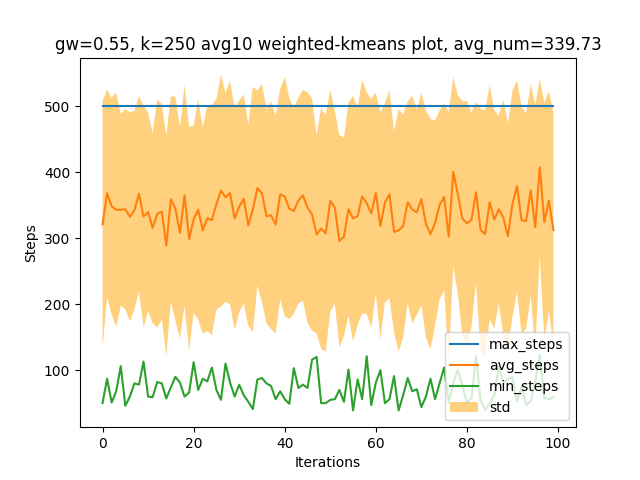
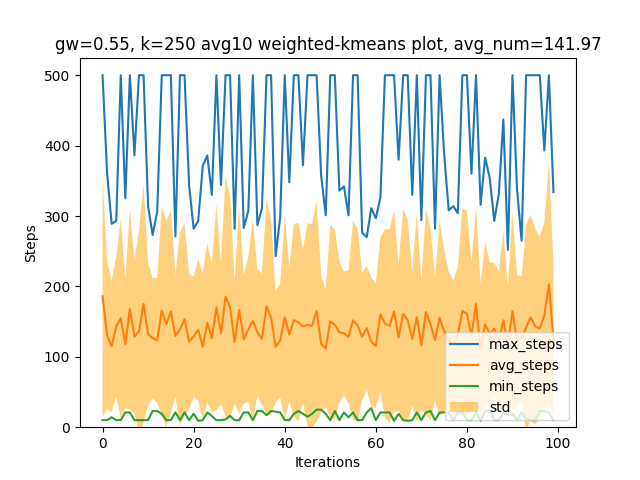
New kmeans equation added but not optimized

diff --git a/classes/genericBasic.py b/classes/genericBasic.py
@@ -1,11 +1,17 @@
 import numpy as np
+import sklearn.utils
+
 from helper.K_MeansTypes import *
+from helper.kmeans_model import *
 from sklearn.cluster import KMeans
 from sklearn import preprocessing
 from scipy.special import softmax
 import matplotlib.pyplot as plt
 from sklearn import datasets, manifold
 from matplotlib.ticker import NullFormatter
+
+from helper.special_plot import Plot
+from sklearn.utils import gen_even_slices
 
 
 
@@ -54,6 +60,12 @@ class GenericModel:
 
         self.split_kmeans_clusters: list[list[np.ndarray]] = [[] for _ in range(self.action_space_size)]
         self.split_kmeans_clusters: list[list[float]] = [[] for _ in range(self.action_space_size)]
+
+
+
+        self.num_batches_analyzed = 600
+        self.use_special_kmeans = True
+        self.show_special = False
 
 
     def get_action_without_kmeans(self, state):
@@ -134,8 +146,42 @@ class GenericModel:
         plt.show()
         print("Finished TSNE!")
 
+    def get_batches(self, data, batch_size):
+        np.random.shuffle(data)
+        num_batches = int(np.floor(data.shape[0]/batch_size))
+        batch_slices = list(gen_even_slices(data.shape[0], num_batches))
+        batches = [data[batch_slice] for batch_slice in batch_slices]
+        return batches
+        #Continue creating batches.
+
+
+    def get_centers_special_kmeans(self, data):
+        print(f"{data.shape=}")
+        data_length = data.shape[0]
+        self.gaussian_width = 0.1
+        model = Model(K=50, D=4, sigma=self.gaussian_width, lambda_=0.5, learning_rate=0.02)
+        model.mu -= 0.5
+        if self.show_special:
+            plot = Plot(model, xlim=(-2.5, 2.5), ylim=(-2.5, 2.5))
+        i = 0
+        while i < self.num_batches_analyzed:
+            batches = self.get_batches(data, 100)
+            for batch in batches:
+                for x in batch:
+                    model.update(x)
+                # Update
+                # Check if updates are finished
+                if self.show_special:
+                    plot.draw_frame_no_label(batch=batch)
+                i += 1
+            print(i)
+        if self.show_special:
+            plot.clf()
+        return model.mu
+
 
     def calc_standard_kmeans(self, run_tsne=False):
+
         self.num_states_when_ran_kmeans= len(self.states)
         if self.weighted_kmeans:
             self.weights = self.get_kmeans_weights()
@@ -147,13 +193,26 @@ class GenericModel:
             self.standardized_states = self.scaler.transform(self.states)
         else:
             self.standardized_states = self.states
-        self.kmeans_centers = KMeans(n_clusters=self.K, random_state=0, n_init='auto').fit(self.standardized_states, sample_weight=self.weights).cluster_centers_
-        if run_tsne:
+
+
+        if self.use_special_kmeans:
+            self.kmeans_centers = self.get_centers_special_kmeans(self.standardized_states)
+        else:
+            self.kmeans_centers = KMeans(n_clusters=self.K, random_state=0, n_init='auto').fit(self.standardized_states, sample_weight=self.weights).cluster_centers_
+
+
+        if run_tsne or True:
             self.tsne()
         if self.use_vectors:
             self.center_vectors = self.calc_kmeans_center_vector(self.kmeans_centers)
         self.kmeans_action_reward_list, self.kmeans_action_weight_list = self.calc_kmeans_center_rewards(self.kmeans_centers)
         self.center_max_rewards = np.max(self.kmeans_action_reward_list, axis=0)
+
+
+    def get_special_kmeans_centers(self):
+
+        print("Test")
+
 
     def get_kmeans_weights(self):
         formatted_input = np.asarray(self.rewards) / (max(np.abs(self.rewards)))

diff --git a/helper/special_plot.py b/helper/special_plot.py
@@ -1,0 +1,76 @@
+import numpy as np
+import matplotlib
+from matplotlib.figure import Figure
+from matplotlib.axes import Axes
+from matplotlib.markers import MarkerStyle
+import matplotlib.pyplot as plt
+from helper.kmeans_model import Model
+
+
+class Plot:
+
+    def __init__(self, model: Model, xlim: tuple[float, float], ylim: tuple[float, float], alpha: float = 0.3):
+        self.model = model
+        self.fig, self.ax = plt.subplots()
+
+        plt.xticks(())
+        plt.yticks(())
+        plt.xlim(xlim)
+        plt.ylim(ylim)
+
+        self.scatter_batch = self.ax.scatter([], [], linewidths=0, color='lightgray')
+        self.scatter_mus = self.ax.scatter([], [], linewidths=0, color='#888888', marker=MarkerStyle("D"))
+        self.scatters_batch_labeled = [
+            self.ax.scatter([], [], linewidths=0, color=cycle['color'], alpha=alpha)
+            for _, cycle in zip(range(self.model.mu.shape[0]), matplotlib.rcParams["axes.prop_cycle"]())
+        ]
+        self.scatters_mus_labeled = [
+            self.ax.scatter([], [], linewidths=0, color=cycle['color'], marker=MarkerStyle("D"))
+            for _, cycle in zip(range(self.model.mu.shape[0]), matplotlib.rcParams["axes.prop_cycle"]())
+        ]
+
+    def __draw(self, batch: np.ndarray, labels: np.ndarray):
+        self.scatter_batch.set_offsets(batch)
+        self.scatter_mus.set_offsets(self.model.mu)
+        for scatter_batch_labeled, scatter_mus_labeled in zip(self.scatters_batch_labeled, self.scatters_mus_labeled):
+            scatter_batch_labeled.set_visible(False)
+            scatter_mus_labeled.set_visible(False)
+
+        for label in range(1, labels.max() + 1):
+            mu_offsets = self.model.mu[labels == label]
+            if len(mu_offsets) > 0:
+                self.scatters_mus_labeled[label - 1].set_offsets(mu_offsets)
+                self.scatters_mus_labeled[label - 1].set_visible(True)
+
+        x_offsets: dict[int, list] = {}
+        for x in batch:
+            closest_mu = np.argmin(np.sum(np.square(self.model.mu - x), axis=1))
+            x_offsets.setdefault(labels[closest_mu], []).append(x)
+
+        for label in range(1, labels.max() + 1):
+            if label in x_offsets:
+                self.scatters_batch_labeled[label - 1].set_offsets(x_offsets[label])
+                self.scatters_batch_labeled[label - 1].set_visible(True)
+
+    def save(self, title: str, batch: np.ndarray, labels: np.ndarray):
+        self.__draw(batch, labels)
+        plt.tight_layout(pad=0.0)
+        plt.savefig(title, bbox_inches='tight', pad_inches=.0)
+
+    def show(self, batch: np.ndarray, labels: np.ndarray):
+        self.__draw(batch, labels)
+        plt.show()
+
+    def draw_frame(self, batch: np.ndarray, labels: np.ndarray):
+        self.__draw(batch, labels)
+        self.fig.canvas.draw_idle()
+        plt.pause(0.0001)
+
+    def draw_frame_no_label(self, batch: np.ndarray):
+        labels = np.zeros(batch.shape[0], dtype=int)
+        self.__draw(batch, labels)
+        self.fig.canvas.draw_idle()
+        plt.pause(0.0001)
+
+    def clf(self):
+        plt.clf()

diff --git a/helper/kmeans_model.py b/helper/kmeans_model.py
@@ -1,0 +1,41 @@
+import numpy as np
+
+
+
+
+class Model:
+
+    def __init__(self, K: int, D: int, sigma: float, lambda_: float, learning_rate: float):
+        self.K = K
+        self.D = D
+        self.mu = np.random.rand(K, D)
+        self.sigma = sigma
+        self.lambda_ = lambda_
+        self.learning_rate = learning_rate
+
+        self.i: list[int] = []
+        self.j: list[int] = []
+        for i in range(0, K):
+            for j in range(0, K):
+                if i != j:
+                    self.i.append(i)
+                    self.j.append(j)
+
+    def f(self, x: np.ndarray, i: None | int | list[int] = None) -> np.ndarray:
+        if i == None:
+            return np.exp(-np.square(x - self.mu).sum(axis=1) / self.sigma)
+        if isinstance(i, int):
+            return np.exp(-np.square(x - self.mu[i]).sum() / self.sigma)
+        return np.exp(-np.square(x - self.mu[i]).sum(axis=1) / self.sigma)
+
+    def update(self, x: np.ndarray):
+        diff = self.f(x).reshape(-1, 1) * (x - self.mu) - (2.0 * self.lambda_ *
+                                                           (self.mu[self.j] - self.mu[self.i]) * self.f(self.mu[self.j], self.i).reshape(-1, 1)).reshape(
+                                                               -1, self.K - 1, self.mu.shape[1]).sum(axis=1)
+
+        self.mu += vekting*self.learning_rate * diff / self.sigma
+        # Snitt vekting er på 1.
+
+    def f_min(self) -> float:
+        # sqrt(a/2) is the inflection point and equal to solution of d^2/dx^2 e^(-x^2/a) = 0 given x>0, a>0
+        return np.exp(-np.square(3. * np.sqrt(self.sigma / 2.) - 0.).sum() / self.sigma)

diff --git a/genericClients/Mass_testing_client.py b/genericClients/Mass_testing_client.py
@@ -6,7 +6,7 @@ import helper.plotHelper as plotHelper
 import time
 import genericClients.kMeansClient as kMeansClient
 
-SEED_COUNT = 30
+SEED_COUNT = 10
 
 
 GAUSSIANS = [0.515, 0.535, 0.55, 0.565, 0.58]
@@ -24,14 +24,14 @@ EXPLORATION_RATES = [0.1]
 RUN_KMEANS_UNWEIGHTED = True
 RUN_KMEANS_UNWEIGHTED = False
 
-RUN_KMEANS_WEIGHTED = True
 RUN_KMEANS_WEIGHTED = False
+RUN_KMEANS_WEIGHTED = True
 
-RUN_KMEANS_VECTOR = False
 RUN_KMEANS_VECTOR = True
+RUN_KMEANS_VECTOR = False
 
-RUN_KMEANS_VECTOR2 = False
 RUN_KMEANS_VECTOR2 = True
+RUN_KMEANS_VECTOR2 = False
 
 RUN_BASIC = True
 RUN_BASIC = False

diff --git a/genericClients/kMeansClient.py b/genericClients/kMeansClient.py
@@ -99,7 +99,9 @@ def run_program(seed=SEED, discount_factor=DISCOUNT_FACTOR, gaussian_width=GAUSS
             episodes += 1
             if episodes == standard_episodes and not ignore_kmeans:
                 print("Calculating kmeans centers...")
+                print(f"{model.states.shape=}")
                 model.calc_standard_kmeans()
+                print(f"{model.states.shape=}")
                 print("Finished calculating kmeans centers")
             if episodes == kmeans_episodes + standard_episodes:
                 break

diff --git a/helper/test_program.py b/helper/test_program.py
@@ -1,0 +1,9 @@
+import numpy as np
+
+
+print("Hello World")
+arr = np.arange(9).reshape((3, 3))
+print(arr)
+print()
+np.random.shuffle(arr)
+print(arr)
